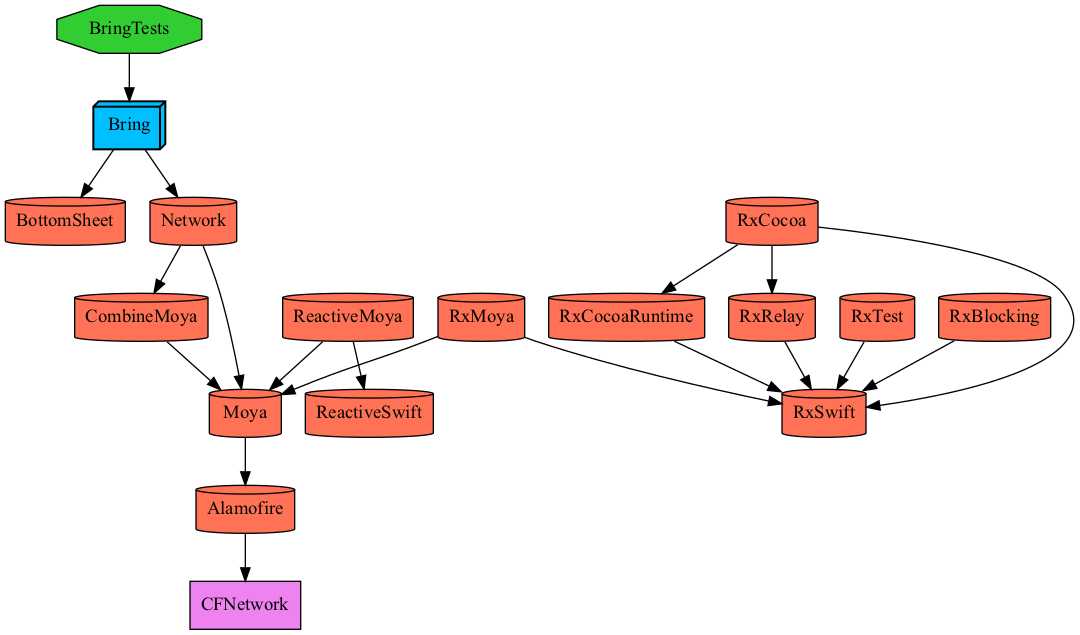
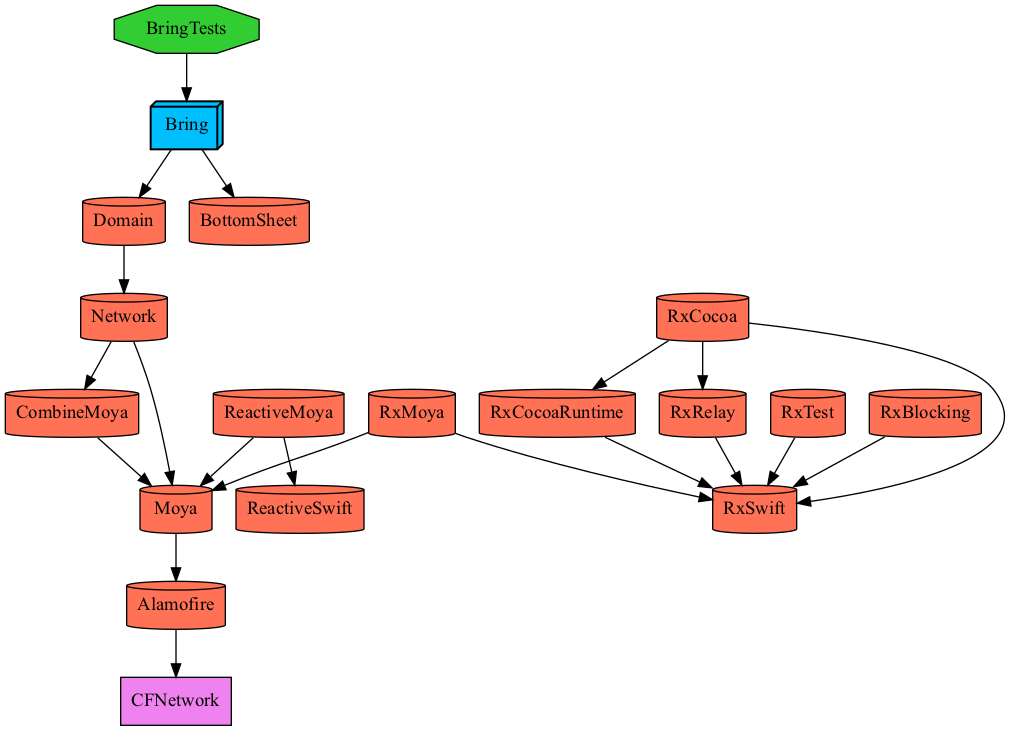
MainInteractor 구현

diff --git a/Projects/Bring/Sources/DomainModels/Brand.swift b/Projects/Bring/Sources/DomainModels/Brand.swift
@@ -11,29 +11,29 @@ import SwiftUI
 import Network
 
 // 임시로 만든 모델
-enum ProductCategory: String, CaseIterable {
+public enum ProductCategory: String, CaseIterable {
     case shoes = "Shoes"
     case accesary = "Accesary"
     case clothes = "Clothes"
     
 }
 
-struct Brand: DomainModel, Hashable, Identifiable {
-    typealias ResponseType = BrandListResponse
+public struct Brand: DomainModel, Hashable, Identifiable {
+    public typealias ResponseType = BrandListResponse
     
-    var id: Int = -1
-    var name: String = ""
-    var engName: String = ""
-    var brandLink: String = ""
+    public var id: Int = -1
+    public var name: String = ""
+    public var engName: String = ""
+    public var brandLink: String = ""
     
-    var thumbnailUrl: String = ""
-    var logoImageUrl: String = ""
-    var category: ProductCategory? = nil
+    public var thumbnailUrl: String = ""
+    public var logoImageUrl: String = ""
+    public var category: ProductCategory? = nil
     
-    var isLiked: Bool = false
+    public var isLiked: Bool = false
     
-    init() { }
-    init(from response: ResponseType) {
+    public init() { }
+    public init(from response: ResponseType) {
         func convert(from category: BrandListResponse.Category) -> ProductCategory {
             switch category {
                 case .shoes:
@@ -58,20 +58,20 @@ struct Brand: DomainModel, Hashable, Identifiable {
     }
 }
 
-struct BrandLiked: DomainModel, Hashable, Identifiable {
-    typealias ResponseType = BrandLikeListResponse
+public struct BrandLiked: DomainModel, Hashable, Identifiable {
+    public typealias ResponseType = BrandLikeListResponse
     
-    var id: Int = -1
-    var name: String = ""
-    var engName: String = ""
-    var brandLink: String = ""
+    public var id: Int = -1
+    public var name: String = ""
+    public var engName: String = ""
+    public var brandLink: String = ""
     
-    var thumbnailUrl: String = ""
-    var logoImageUrl: String = ""
+    public var thumbnailUrl: String = ""
+    public var logoImageUrl: String = ""
     
-    var isLiked: Bool = false
+    public var isLiked: Bool = false
     
-    init(from response: ResponseType) {
+    public init(from response: ResponseType) {
         
         id = response.bringBasicBrand?.id ?? -1
         name = response.bringBasicBrand?.korName ?? ""

diff --git a/Projects/Bring/Sources/Presentation/Main/ViewModel/MainViewModel.swift b/Projects/Bring/Sources/Presentation/Main/ViewModel/MainViewModel.swift
@@ -10,37 +10,27 @@ import SwiftUI
 import Combine
 import Moya
 import CombineMoya
-import Network
+import Domain
 
 class MainViewModel: ObservableObject {
     @Published var bringBrands: [BrandLiked]
     @Published var popularBrands: [Brand]
     @Published var mainBrands: [Brand]
     
-    var serviceManager: BrandServiceComponent
+    var interactor: MainInteractor
     var cancellables: Set<AnyCancellable>
     
-    init(serviceManager: BrandServiceComponent) {
+    init(interactor: MainInteractor) {
         self.bringBrands = [BrandLiked]()
         self.mainBrands = [Brand]()
         self.popularBrands = [Brand]()
         
-        self.serviceManager = serviceManager
+        self.interactor = interactor
         self.cancellables = Set<AnyCancellable>()
     }
     
-    func fetchBrandData(name: String = "") {
-//        serviceManager
-//            .fetchBrand(name: name)
-//            .map { Brand(from: $0) }
-//            .sink { [weak self] value in
-//                self?.bringedBrands = value
-//            }
-//            .store(in: &cancellables)
-    }
-    
     func fetchBringBrands() {
-        serviceManager
+        interactor
             .fetchLikeBrands()
             .map { $0.map { BrandLiked(from: $0) } }
 //            .map { $0.map { Brand(from: $0) } }
@@ -58,7 +48,7 @@ class MainViewModel: ObservableObject {
     }
     
     func fetchPopularBrands() {
-        serviceManager
+        interactor
             .fetchPopularBrands()
             .map { $0.map { Brand(from: $0) } }
             .sink(receiveCompletion: { result in
@@ -75,7 +65,7 @@ class MainViewModel: ObservableObject {
     }
     
     func fetchMainBrands() {
-        serviceManager
+        interactor
             .fetchAllBrands()
             .map { $0.map { Brand(from: $0) } }
             .sink(receiveCompletion: { result in
@@ -92,7 +82,7 @@ class MainViewModel: ObservableObject {
     }
     
     func postLike(id: Int, completion: (() -> Void)? = nil) {
-        serviceManager
+        interactor
             .postBrand(id: id)
             .sink { [weak self] result in
                 switch result {

diff --git a/Projects/Domain/Sources/Main/MainInteractor.swift b/Projects/Domain/Sources/Main/MainInteractor.swift
@@ -1,0 +1,68 @@
+//
+//  MainInteractor.swift
+//  Domain
+//
+//  Created by devming on 2021/12/04.
+//  Copyright © 2021 com.666. All rights reserved.
+//
+
+import Foundation
+import Network
+import Moya
+import Combine
+import CombineMoya
+
+public class MainInteractor {
+    
+    private let serviceManager: BrandServiceComponent
+    
+    public init(serviceManager: BrandServiceComponent) {
+        self.serviceManager = BrandServiceManagerImpl()
+    }
+    
+    public func addMyBrand(engName: String, korName: String, siteUrl: String) -> AnyPublisher<Void, MoyaError> {
+        serviceManager
+            .addMyBrand(engName: engName,
+                        korName: korName,
+                        siteUrl: siteUrl)
+            .map { _ in () }
+            .eraseToAnyPublisher()
+    }
+    
+    public func fetchBrand(id: String) -> AnyPublisher<BrandListResponse, MoyaError> {
+        serviceManager
+            .fetchBrand(id: id)
+            .eraseToAnyPublisher()
+    }
+    
+    public func fetchAllBrands() -> AnyPublisher<[BrandListResponse], MoyaError> {
+        serviceManager
+            .fetchAllBrands()
+            .eraseToAnyPublisher()
+    }
+    
+    public func fetchLikeBrands() -> AnyPublisher<[BrandLikeListResponse], MoyaError> {
+        serviceManager
+            .fetchLikeBrands()
+            .eraseToAnyPublisher()
+    }
+    
+    public func fetchPopularBrands() -> AnyPublisher<[BrandListResponse], MoyaError> {
+        serviceManager
+            .fetchPopularBrands()
+            .eraseToAnyPublisher()
+    }
+    
+    public func fetchSearchedBrands(keyword: String) -> AnyPublisher<[BrandListResponse], MoyaError> {
+        serviceManager
+            .fetchSearchedBrands(keyword: keyword)
+            .eraseToAnyPublisher()
+    }
+    
+    public func postBrand(id: Int) -> AnyPublisher<Bool, MoyaError> {
+        serviceManager
+            .postBrand(id: id)
+            .map { _ in true }
+            .eraseToAnyPublisher()
+    }
+}

diff --git a/Projects/Bring/Sources/Presentation/Main/View/BringBrand/BringBrandItemView.swift b/Projects/Bring/Sources/Presentation/Main/View/BringBrand/BringBrandItemView.swift
@@ -8,6 +8,7 @@
 
 import SwiftUI
 import Network
+import Domain
 
 struct BringBrandItemView: View {
     enum Constant: CGFloat {
@@ -58,6 +59,8 @@ struct BringBrandItemView: View {
 
 struct BringBrandItemView_Previews: PreviewProvider {
     static var previews: some View {
+//        MainViewModel(useCase: MainInteractor())
+        MainViewModel(useCase: MainInteractor(serviceManager: BrandServiceManagerMock()))
         let viewModel = MainViewModel(serviceManager: BrandServiceManagerMock())
         viewModel.fetchBringBrands()
         return BringBrandItemView(brand: viewModel.bringBrands.first!)

diff --git a/Projects/Domain/Project.swift b/Projects/Domain/Project.swift
@@ -1,0 +1,26 @@
+//
+//  Project.swift
+//  ProjectDescriptionHelpers
+//
+//  Created by devming on 2021/09/23.
+//
+import ProjectDescription
+import ProjectDescriptionHelpers
+
+let projectName = "Domain"
+let organizationName = "com.666"
+let bundleID = "\(organizationName).\(projectName)"
+
+let targets = Project.staticFrameworkTargets(
+    name: projectName,
+    bundleID: bundleID,
+    dependencies: [
+        .project(target: "Network", path: "../Network")
+    ]
+)
+
+let project = Project.staticFramework(
+    name: projectName,
+    organizationName: organizationName,
+    targets: targets
+)

diff --git a/Projects/Domain/Sources/WebView/WebViewInteractor.swift b/Projects/Domain/Sources/WebView/WebViewInteractor.swift
@@ -1,0 +1,22 @@
+//
+//  WebViewInteractor.swift
+//  Domain
+//
+//  Created by devming on 2021/12/15.
+//  Copyright © 2021 com.666. All rights reserved.
+//
+
+import Foundation
+import Network
+import Moya
+import Combine
+import CombineMoya
+
+public class WebViewInteractor {
+    
+    private let serviceManager: FolderService
+    
+    public init(serviceManager: FolderServiceComponent) {
+        self.serviceManager = FolderServiceManagerImpl()
+    }
+}

diff --git a/Projects/Bring/Project.swift b/Projects/Bring/Project.swift
@@ -12,7 +12,7 @@ let project = Project.excutable(
     organizationName: organizationName,
     platform: .iOS,
     dependencies: [
-        .project(target: "Network", path: "../Network"),
+        .project(target: "Domain", path: "../Domain"),
         .external(name: "BottomSheet"),
     ]
 )

diff --git a/Workspace.swift b/Workspace.swift
@@ -5,6 +5,7 @@ let workspace = Workspace(
   name: "Bring",
   projects: [
     "Projects/Bring",
+    "Projects/Domain",
     "Projects/Network"
   ],
   fileHeaderTemplate: nil,
